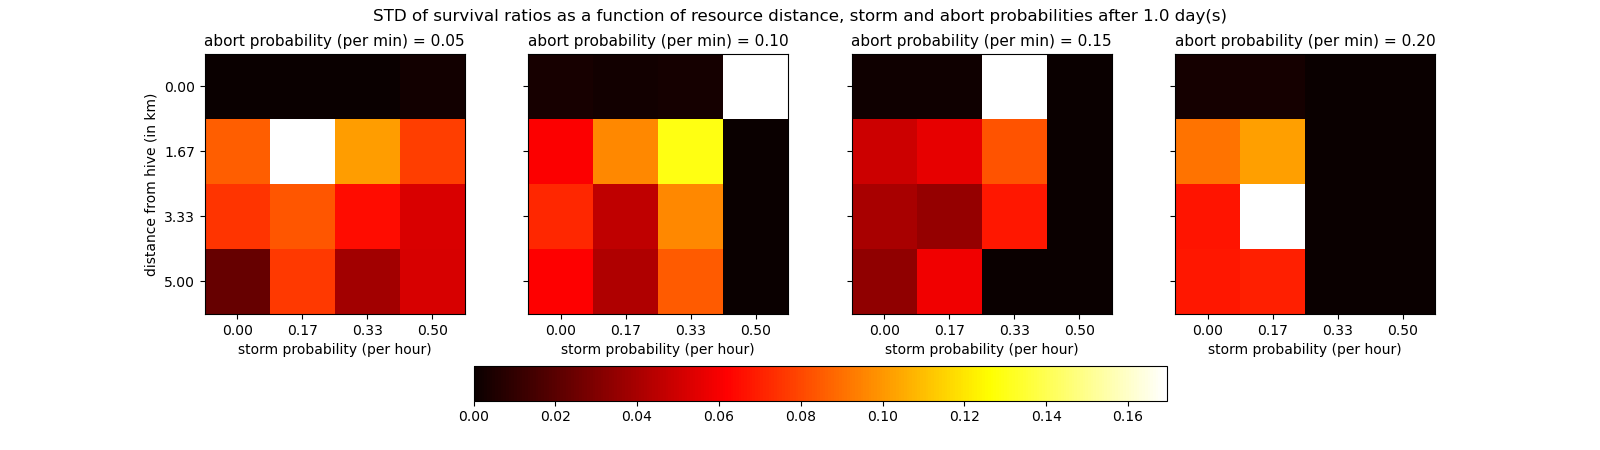
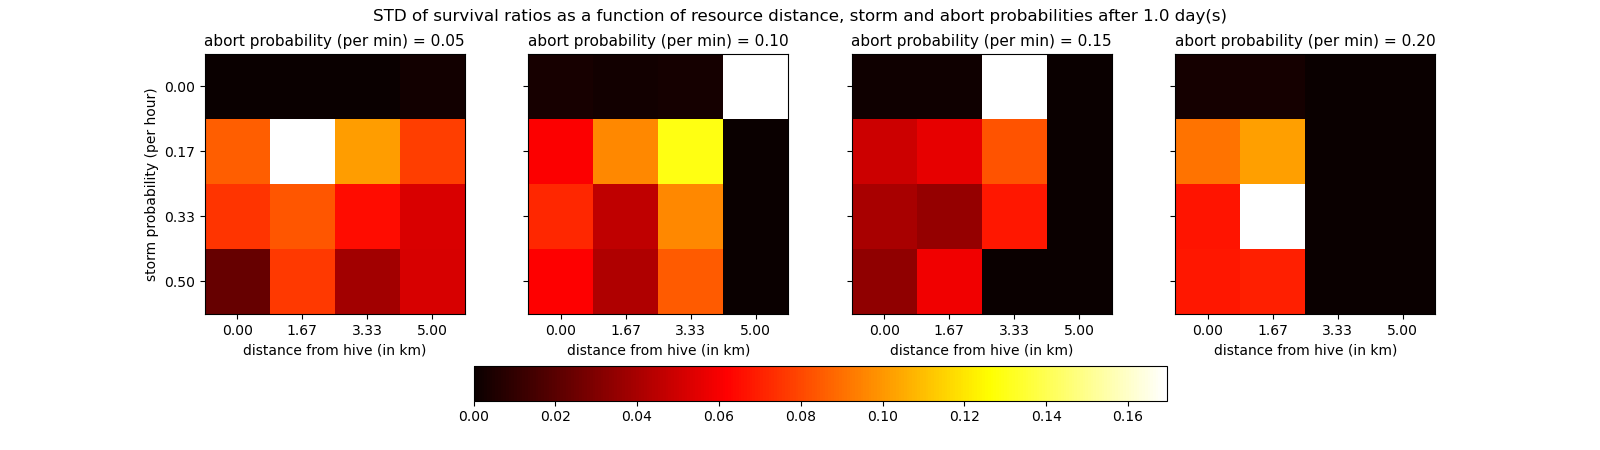
Fixed flipped axis

diff --git a/continuous_model/exp1_3d.py b/continuous_model/exp1_3d.py
@@ -62,13 +62,13 @@ def visualize_results(data, name: str, cmap):
         img = ax.imshow(slice_data, cmap=cmap)
         images.append(img)
         ax.set_title(f'abort probability (per min) = {p_abort_params[slice_idx]*MINUTE:.2f}', fontsize=11)
-        ax.set_xlabel('storm probability (per hour)')
+        ax.set_xlabel('distance from hive (in km)')
         ax.set_xticks(np.arange(resolution))
-        ax.set_xticklabels([f'{p_storm*HOUR:.2f}' for p_storm in p_storm_params])
+        ax.set_xticklabels([f'{dist_from_hive/1000:.2f}' for dist_from_hive in res_dist_from_hive_params])
         if i == 0:
-            ax.set_ylabel('distance from hive (in km)')
+            ax.set_ylabel('storm probability (per hour)')
         ax.set_yticks(np.arange(resolution))
-        ax.set_yticklabels([f'{dist_from_hive/1000:.2f}' for dist_from_hive in res_dist_from_hive_params])
+        ax.set_yticklabels([f'{p_storm*HOUR:.2f}' for p_storm in p_storm_params])
 
     fig.colorbar(images[-1], ax=axs, orientation='horizontal', fraction=.1)
     plt.suptitle(f'{name} of survival ratios as a function of resource distance, storm and abort probabilities after {t_steps*dt/DAY} day(s)')
